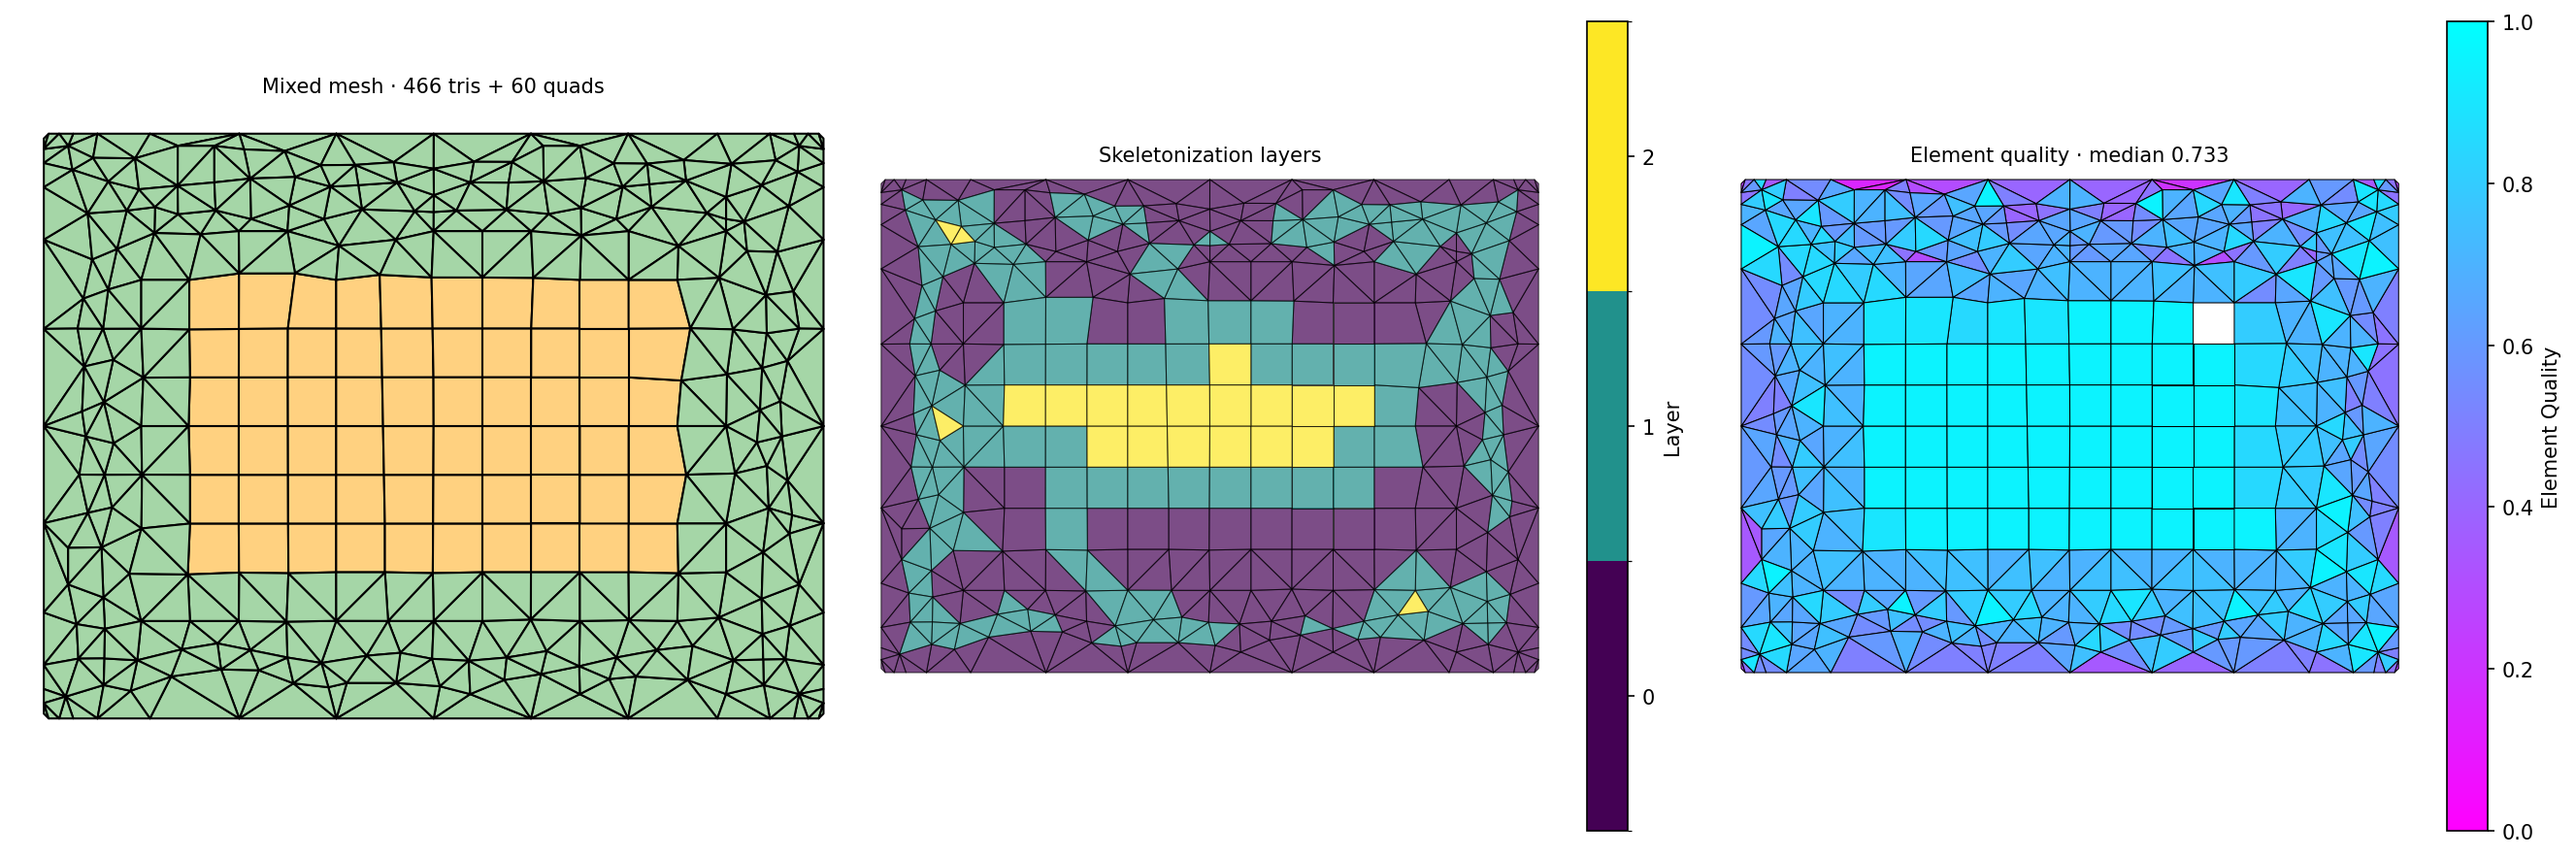
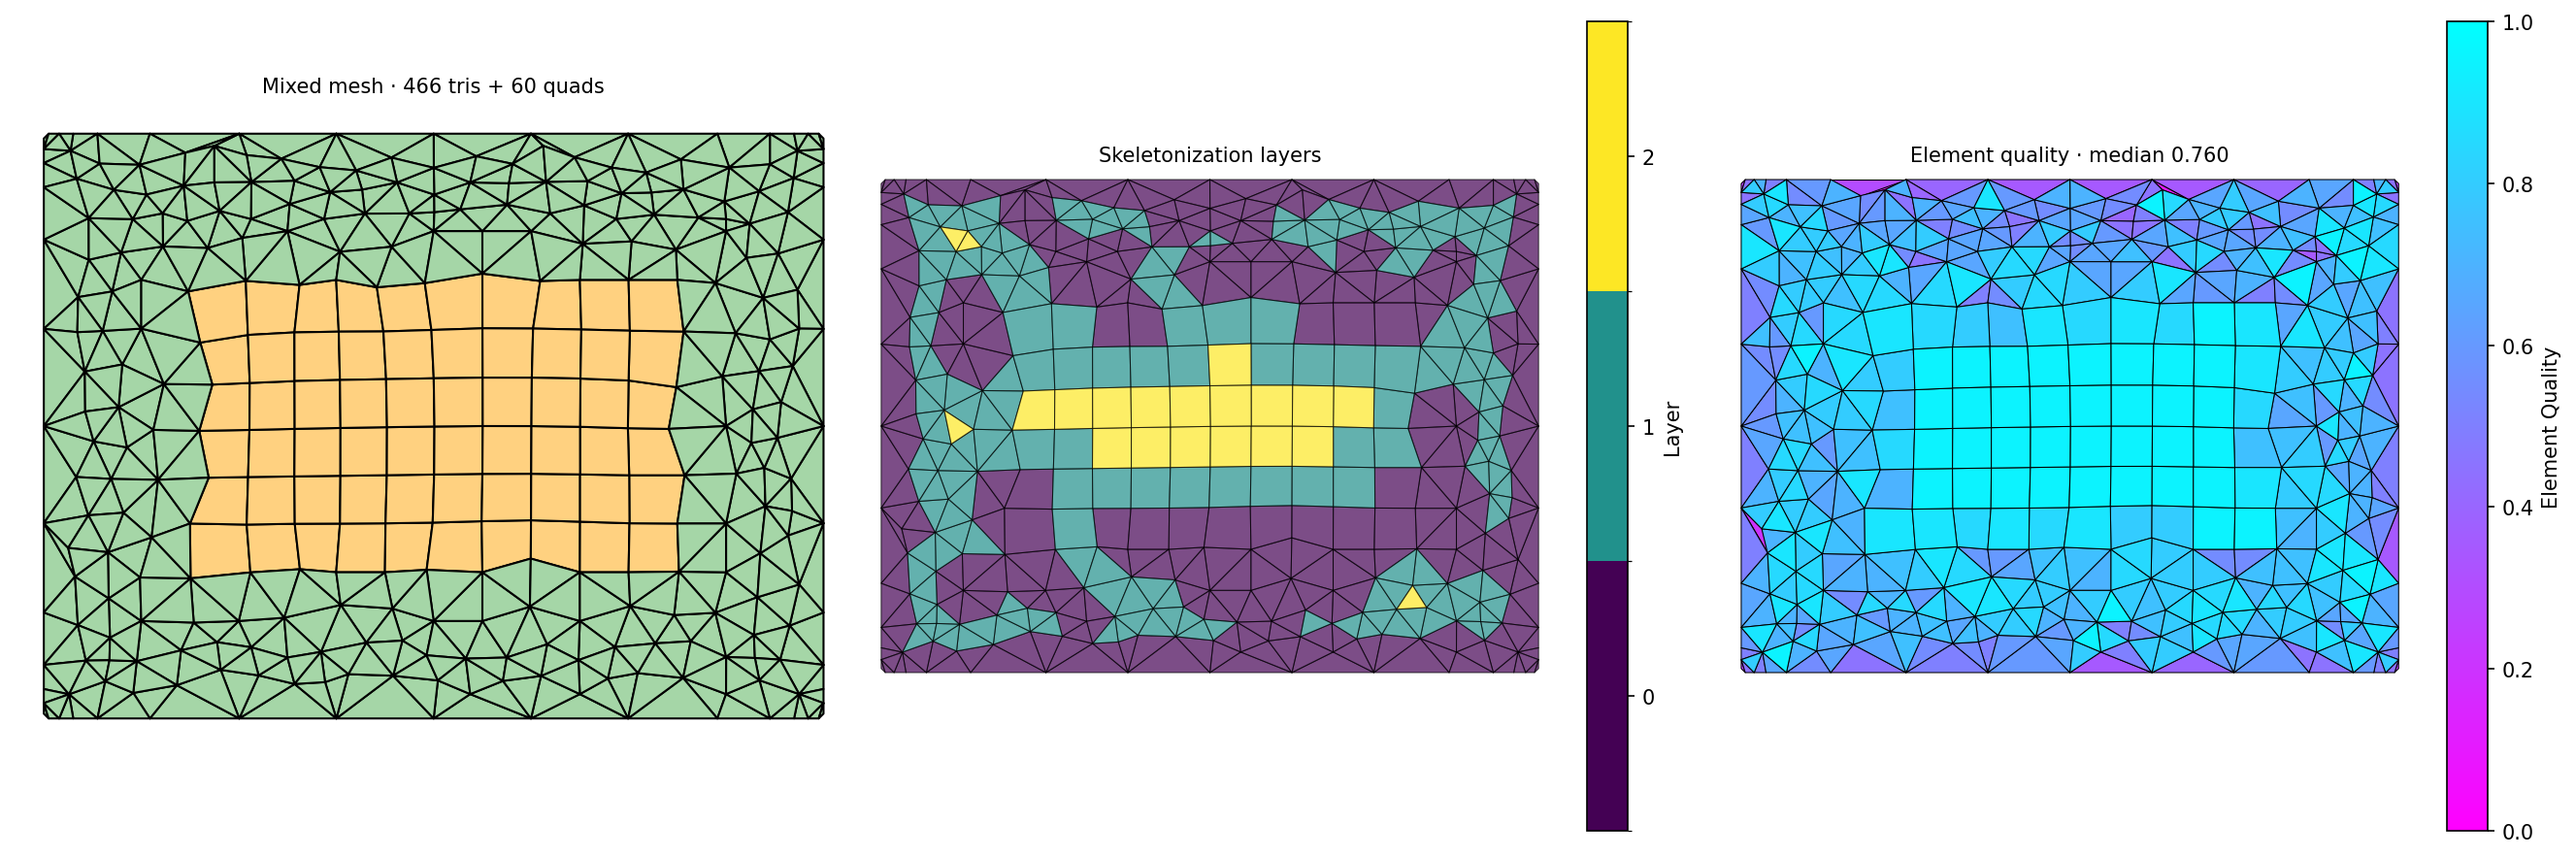
chore(demo): switch mixed mesh to FEM smoother, regenerate figures, update README
- Update mixed_truss_demo.py to use FEM smoother instead of angle-based
- Regenerate figures with FEM smoothing: median quality 0.760 (was 0.733)
- Update README: method, quality stats, figure version cache-bust
- Update pipeline description to reflect symmetric quad decomposition

Fixes #95, #100 - completes FEM smoother integration for mixed-element meshes

Changed region(s): [[0.0, 0.1529, 0.6179, 0.8256], [0.6488, 0.1835, 0.9578, 0.795]]

diff --git a/scripts/generate_mixed_truss_demo.py b/scripts/generate_mixed_truss_demo.py
@@ -294,12 +294,12 @@ def build_combined_mesh(
 
 
 # ---------------------------------------------------------------------------
-# Stage 6: Angle-based smooth (outer boundary pinned)
+# Stage 6: FEM smooth (symmetric quad stiffness (outer boundary pinned)
 # ---------------------------------------------------------------------------
 
-def angle_smooth(mesh: CHILmesh) -> CHILmesh:
-    """Iterative angle-based smoother (Zhou & Shimada inscribed-angle, boundary pinned)."""
-    mesh.smooth_mesh(method='angle-based', acknowledge_change=True)
+def fem_smooth(mesh: CHILmesh) -> CHILmesh:
+    """FEM smoother with symmetric quad stiffness (boundary pinned)."""
+    mesh.smooth_mesh(method='fem', acknowledge_change=True)
     return mesh
 
 
@@ -384,8 +384,8 @@ def main(out_path: Path | None = None) -> Path:
         points=mesh_pre.points.copy(),
         compute_layers=True,
     )
-    print("[6/6] Angle-based smooth (Zhou & Shimada inscribed-angle, boundary pinned) …")
-    angle_smooth(mesh_smooth)
+    print("[6/6] FEM smooth (symmetric quad stiffness, boundary pinned) …")
+    fem_smooth(mesh_smooth)
 
     q_pre, _, _   = mesh_pre.elem_quality()
     q_post, _, _  = mesh_smooth.elem_quality()

diff --git a/README.md b/README.md
@@ -53,11 +53,11 @@ Median quality 0.797, mean 0.786 across all 98k elements. Full init + quality an
 
 ### Showcase: Mixed-Element Mesh from Quad Core + ADMESH Tri Ring
 
-466 corner-graded triangles surrounding 60 quads after angle-based smoothing (Zhou & Shimada, boundary pinned, median quality 0.733) — wireframe, skeletonization layers, and per-element quality:
+466 corner-graded triangles surrounding 60 quads after FEM smoothing (symmetric quad stiffness, boundary pinned, median quality 0.760) — wireframe, skeletonization layers, and per-element quality:
 
-![Mixed-element mesh: wireframe, layers, quality](output/mixed_mesh_showcase.png?v=1)
+![Mixed-element mesh: wireframe, layers, quality](output/mixed_mesh_showcase.png?v=2)
 
-**Pipeline.** Start with a 16×12 structured quad rectangle (192 quads, 6 skeleton layers). Strip layers 0–1 as the ADMESH domain, drop layer 2, retain layers 3+ as the quad core. Apply `distmesh1d` to the outer rectangle perimeter with a corner-dense edge-length field `h(p) = 0.05 + 0.45·(1 − exp(−(d/0.5)²))` (d = distance to nearest corner) — perimeter edge lengths now span 0.035–0.499 vs. uniform 0.250. Grid-sample interior points within the ring SDF and run ADMESH full distmesh with both the outer rectangle perimeter and the layer-1/2 seam pinned — produces 394 quality-graded triangles densest at the four 90° corners. Delaunay-triangulate the layer-2 gap band from boundary nodes only (72 tris), stitch with the 60 quads into a combined mesh, then run the angle-based smoother (100 iterations, quality-greedy Gauss-Seidel, boundary pinned). Reproduce: `python scripts/generate_mixed_truss_demo.py` (also writes a 4-panel pipeline diagram to `output/mixed_truss_fem_demo.png`).
+**Pipeline.** Start with a 16×12 structured quad rectangle (192 quads, 6 skeleton layers). Strip layers 0–1 as the ADMESH domain, drop layer 2, retain layers 3+ as the quad core. Apply `distmesh1d` to the outer rectangle perimeter with a corner-dense edge-length field `h(p) = 0.05 + 0.45·(1 − exp(−(d/0.5)²))` (d = distance to nearest corner) — perimeter edge lengths now span 0.035–0.499 vs. uniform 0.250. Grid-sample interior points within the ring SDF and run ADMESH full distmesh with both the outer rectangle perimeter and the layer-1/2 seam pinned — produces 394 quality-graded triangles densest at the four 90° corners. Delaunay-triangulate the layer-2 gap band from boundary nodes only (72 tris), stitch with the 60 quads into a combined mesh, then run the FEM smoother (symmetric quad decomposition, boundary pinned). Reproduce: `python scripts/generate_mixed_truss_demo.py` (also writes a 4-panel pipeline diagram to `output/mixed_truss_fem_demo.png`).
 
 ### Showcase: Skeletonization & Mesh Plotting
 
